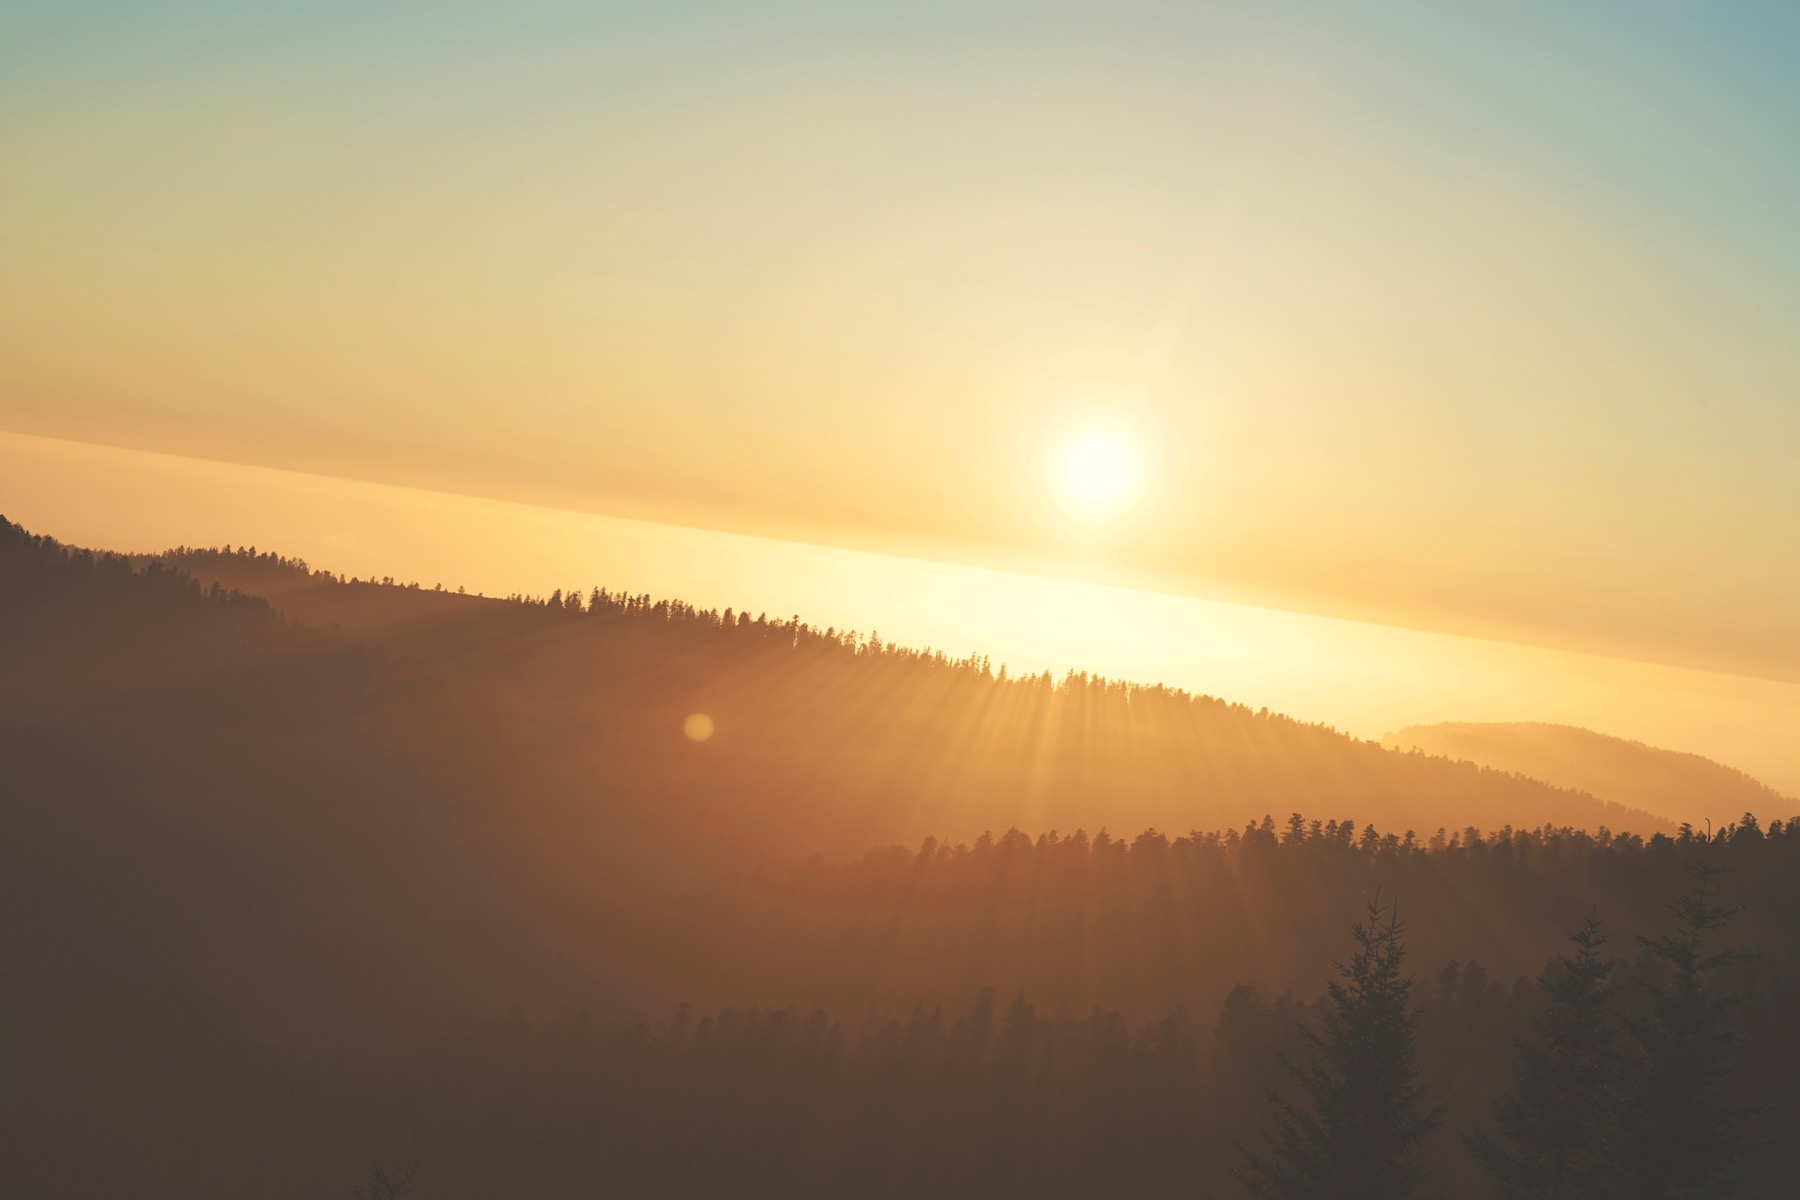
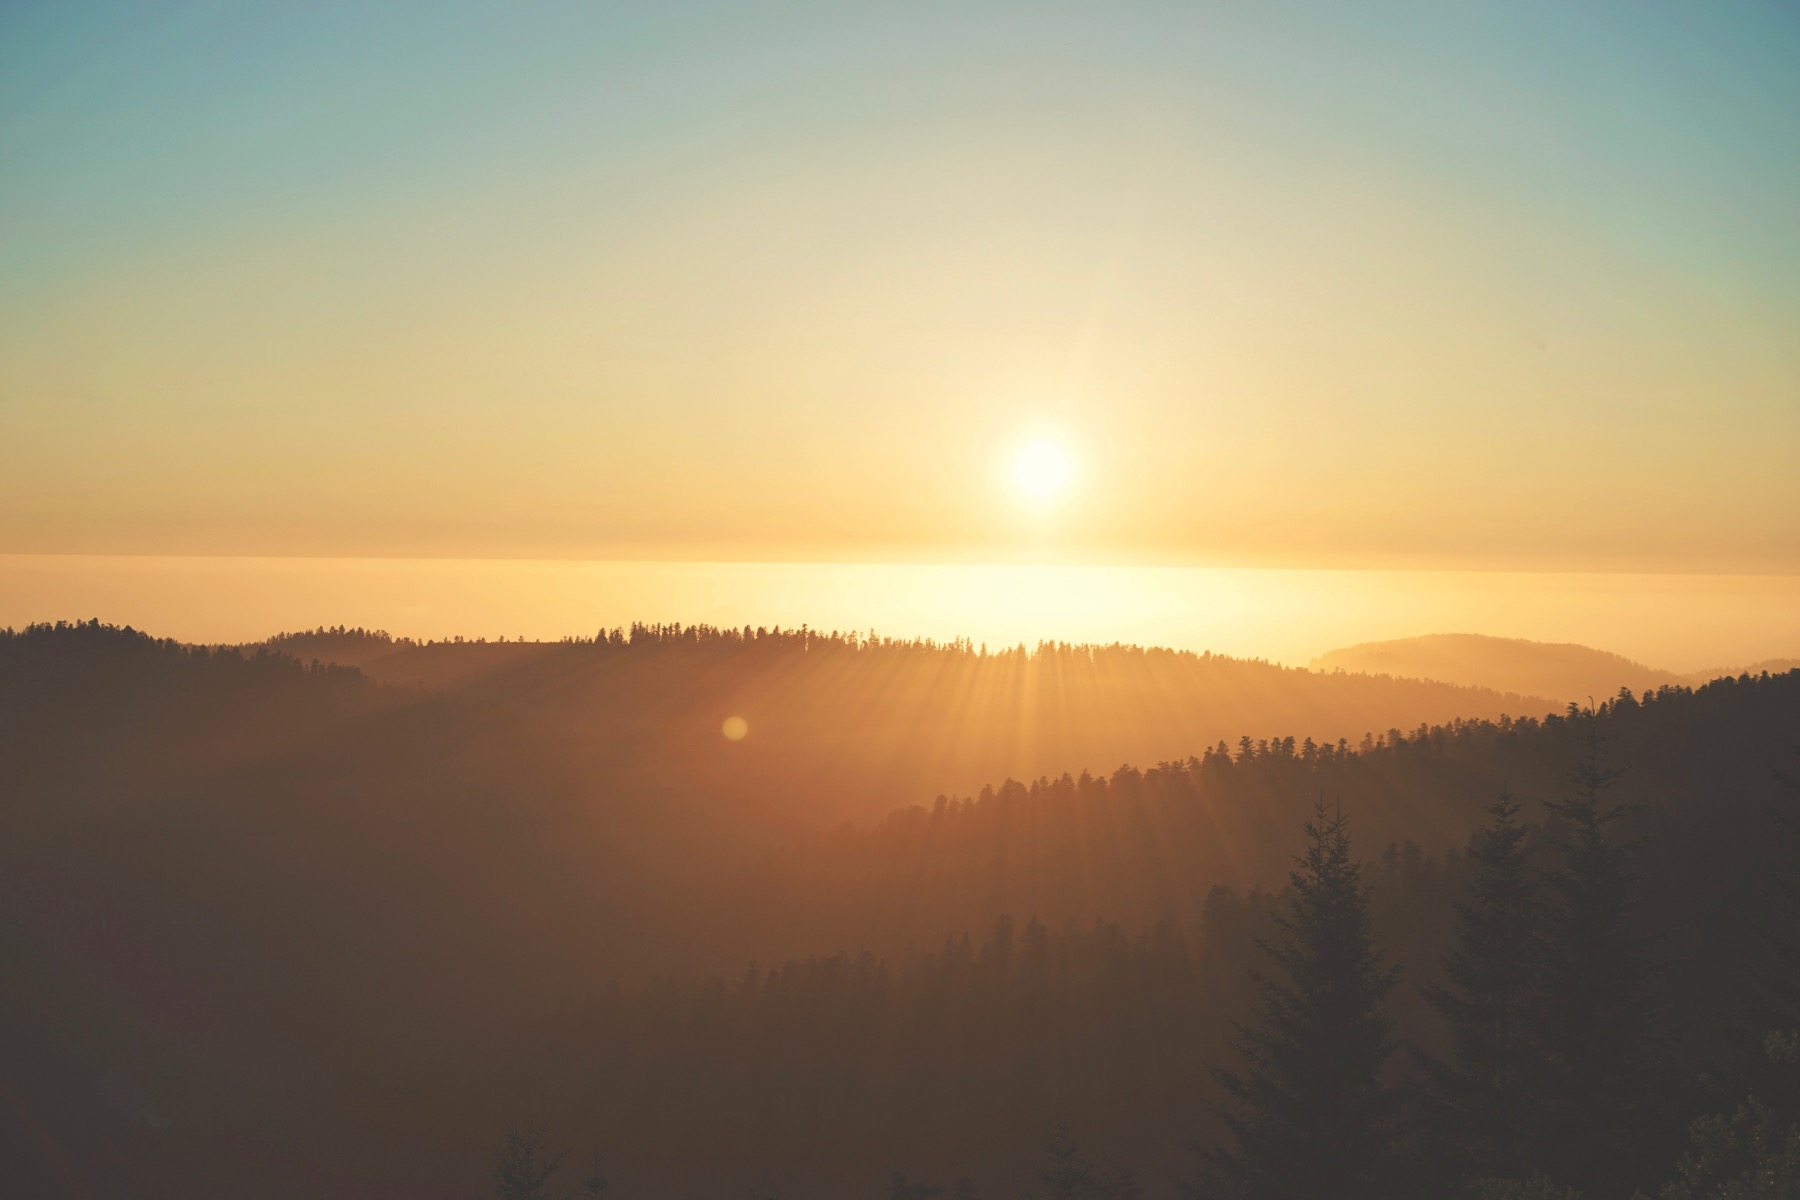
add photos to with all my love for this world collection

diff --git a/src/pages/with-all-my-love-for-this-world.js b/src/pages/with-all-my-love-for-this-world.js
@@ -40,6 +40,7 @@ const content = [
 
   // flowers and other living things
   "DSC00532.jpg", // joshua trees and sun, joshua tree park
+  "DSC02828.jpg", // clouds, yellowstone
   "DSC01103.jpg", // tree, washington park arboretum, seattle
   "DSC06723.jpg", // trees in the black forest, germany
   "DSC01065.jpg", // pine and cherry blossom, washington park arboretum, seattle
@@ -52,6 +53,12 @@ const content = [
   "DSC04290.jpg", // road, south mono lake
   "DSC04216.jpg", // bush and salt lake, west mono lake
   "DSC06626.jpg", // thick fog over sea, calif
+  "DSC02974.jpg", // misted lake, yellowstone
+  "DSC02986.jpg", // waterfall, yellowstone
+  "DSC02987.jpg", // waterfall, yellowstone
+  "DSC02892.jpg",
+  "DSC02926.jpg",
+  "DSC02933.jpg",
   "DSC06618.jpg", // milky way, crater lake
 
   // dream is over
